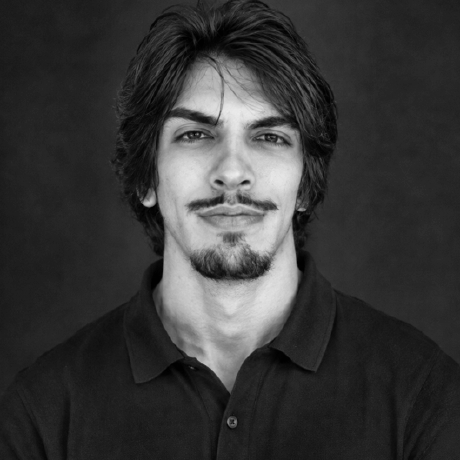
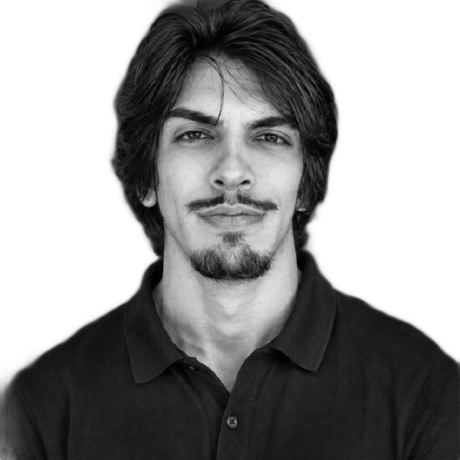
fix: use lightweight portrait background segmentation

diff --git a/scripts/prep_photo.py b/scripts/prep_photo.py
@@ -14,8 +14,9 @@ def main():
     image = ImageOps.exif_transpose(Image.open(ROOT/'assets/source-photo.png')).convert('RGBA')
     if not args.skip_rembg:
         try:
-            from rembg import remove
-            image = remove(image)
+            from rembg import remove, new_session
+            # Explicit lightweight model avoids changing rembg defaults / large downloads.
+            image = remove(image, session=new_session('u2netp'))
         except Exception as exc:
             warnings.warn(f'Background removal unavailable ({type(exc).__name__}); retaining original.')
     canvas = Image.new('RGBA', image.size, 'white'); canvas.alpha_composite(image)
